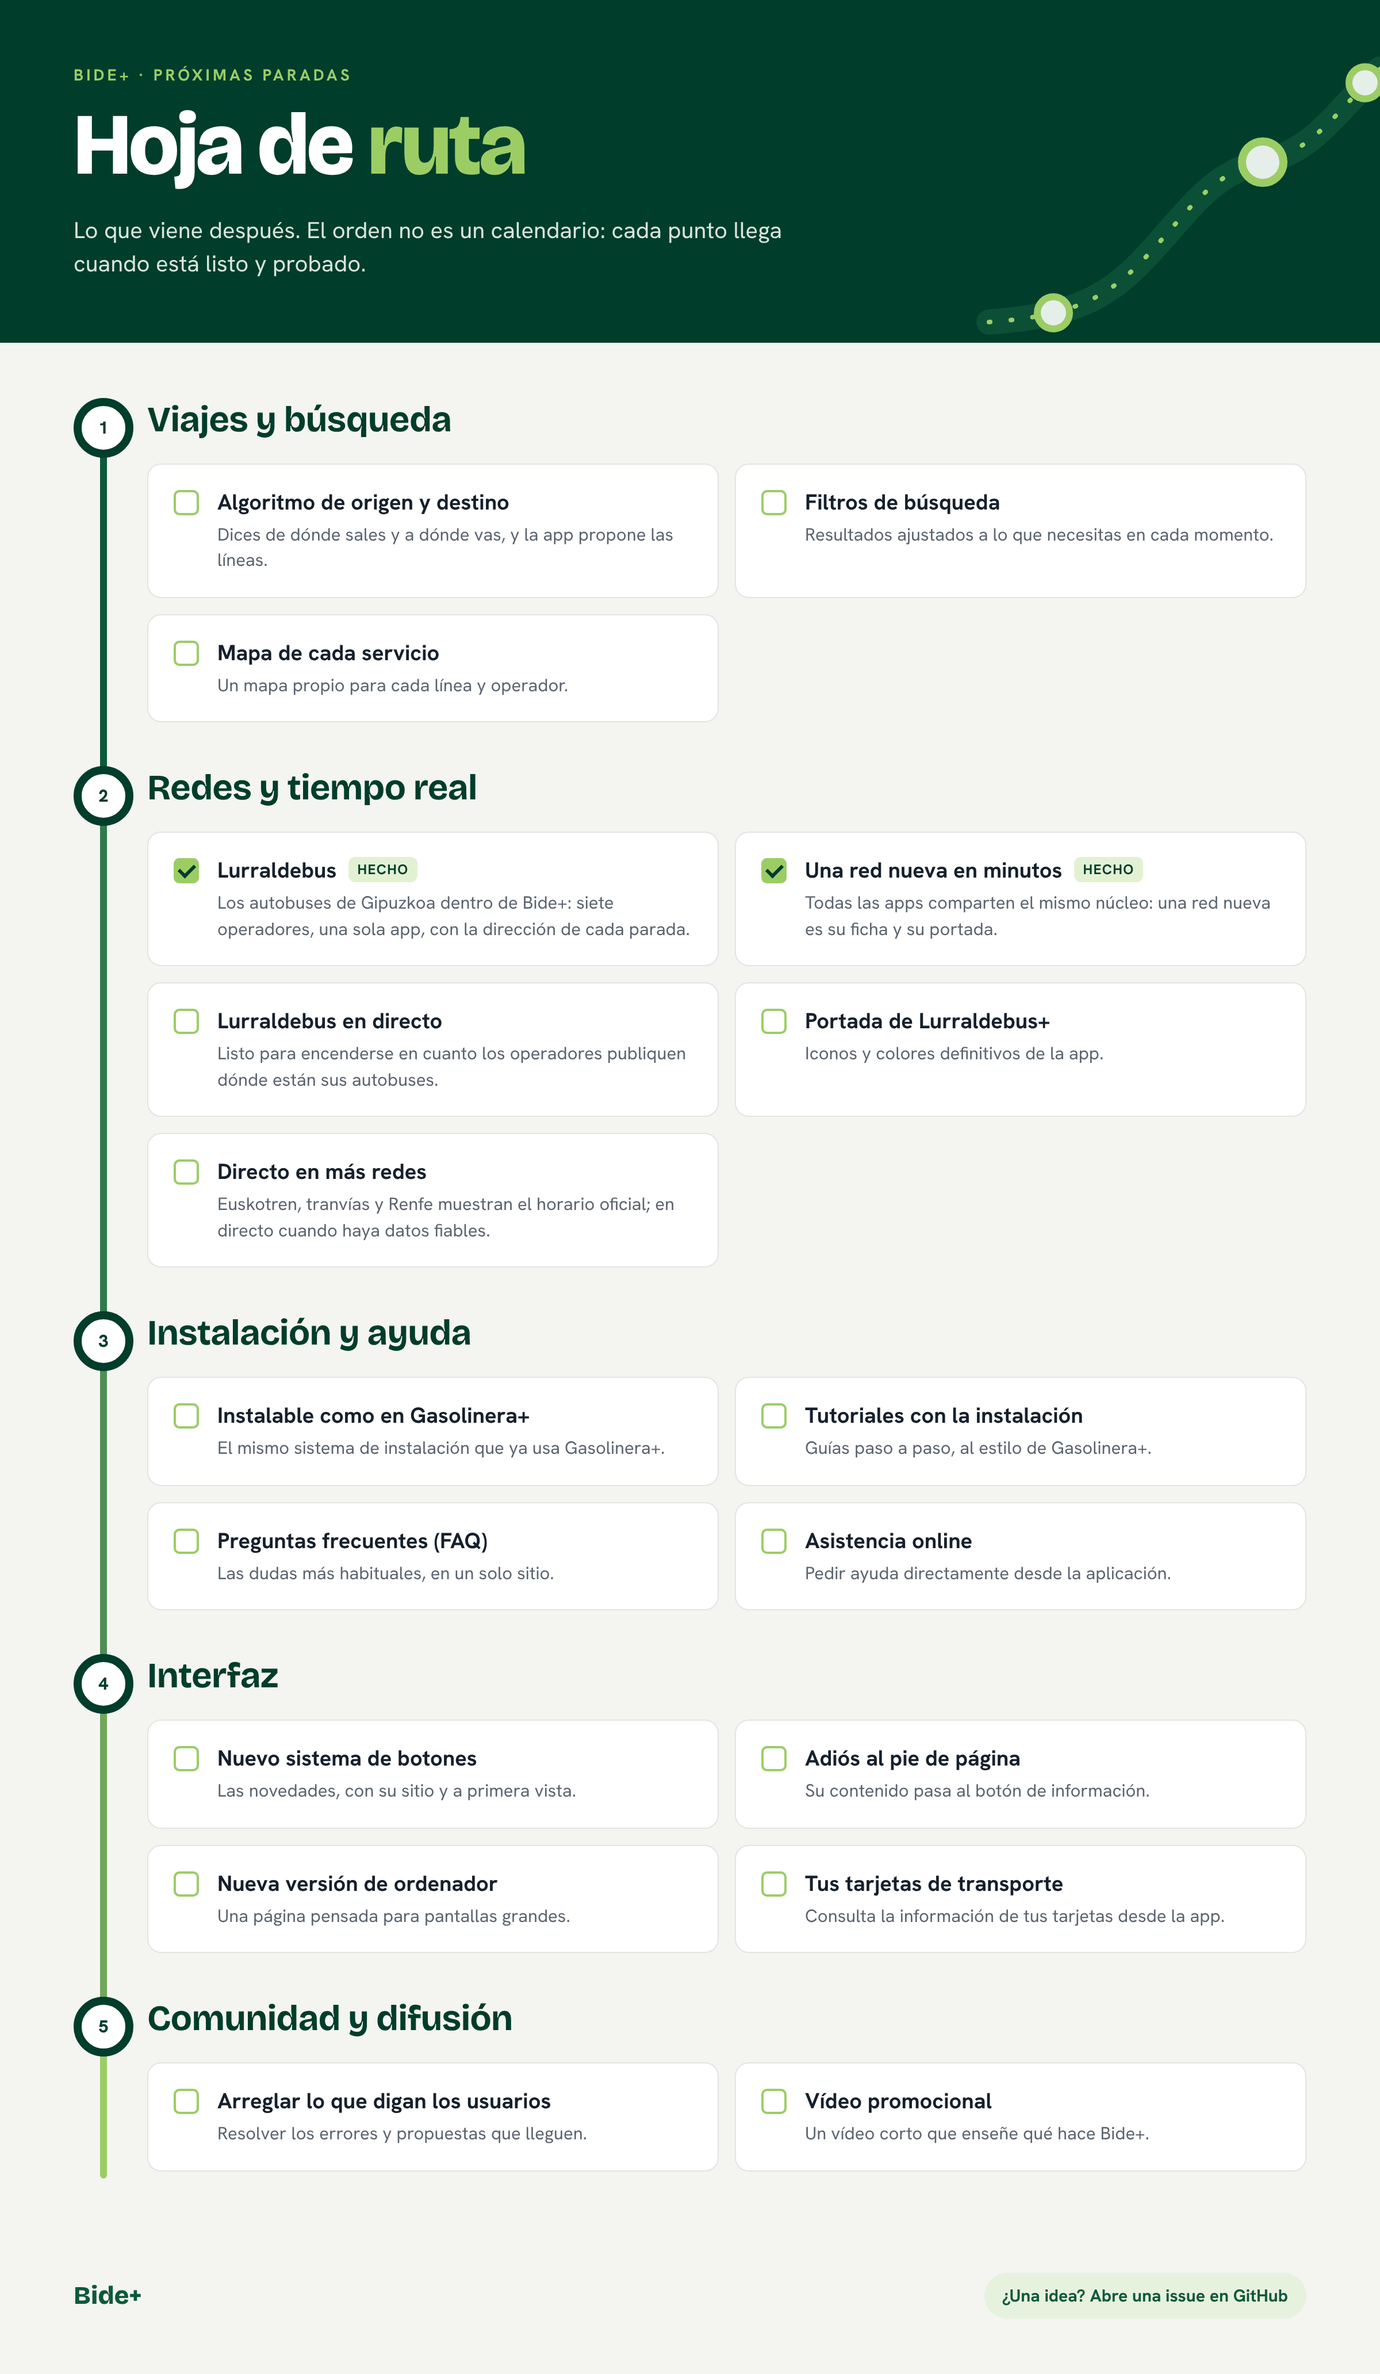
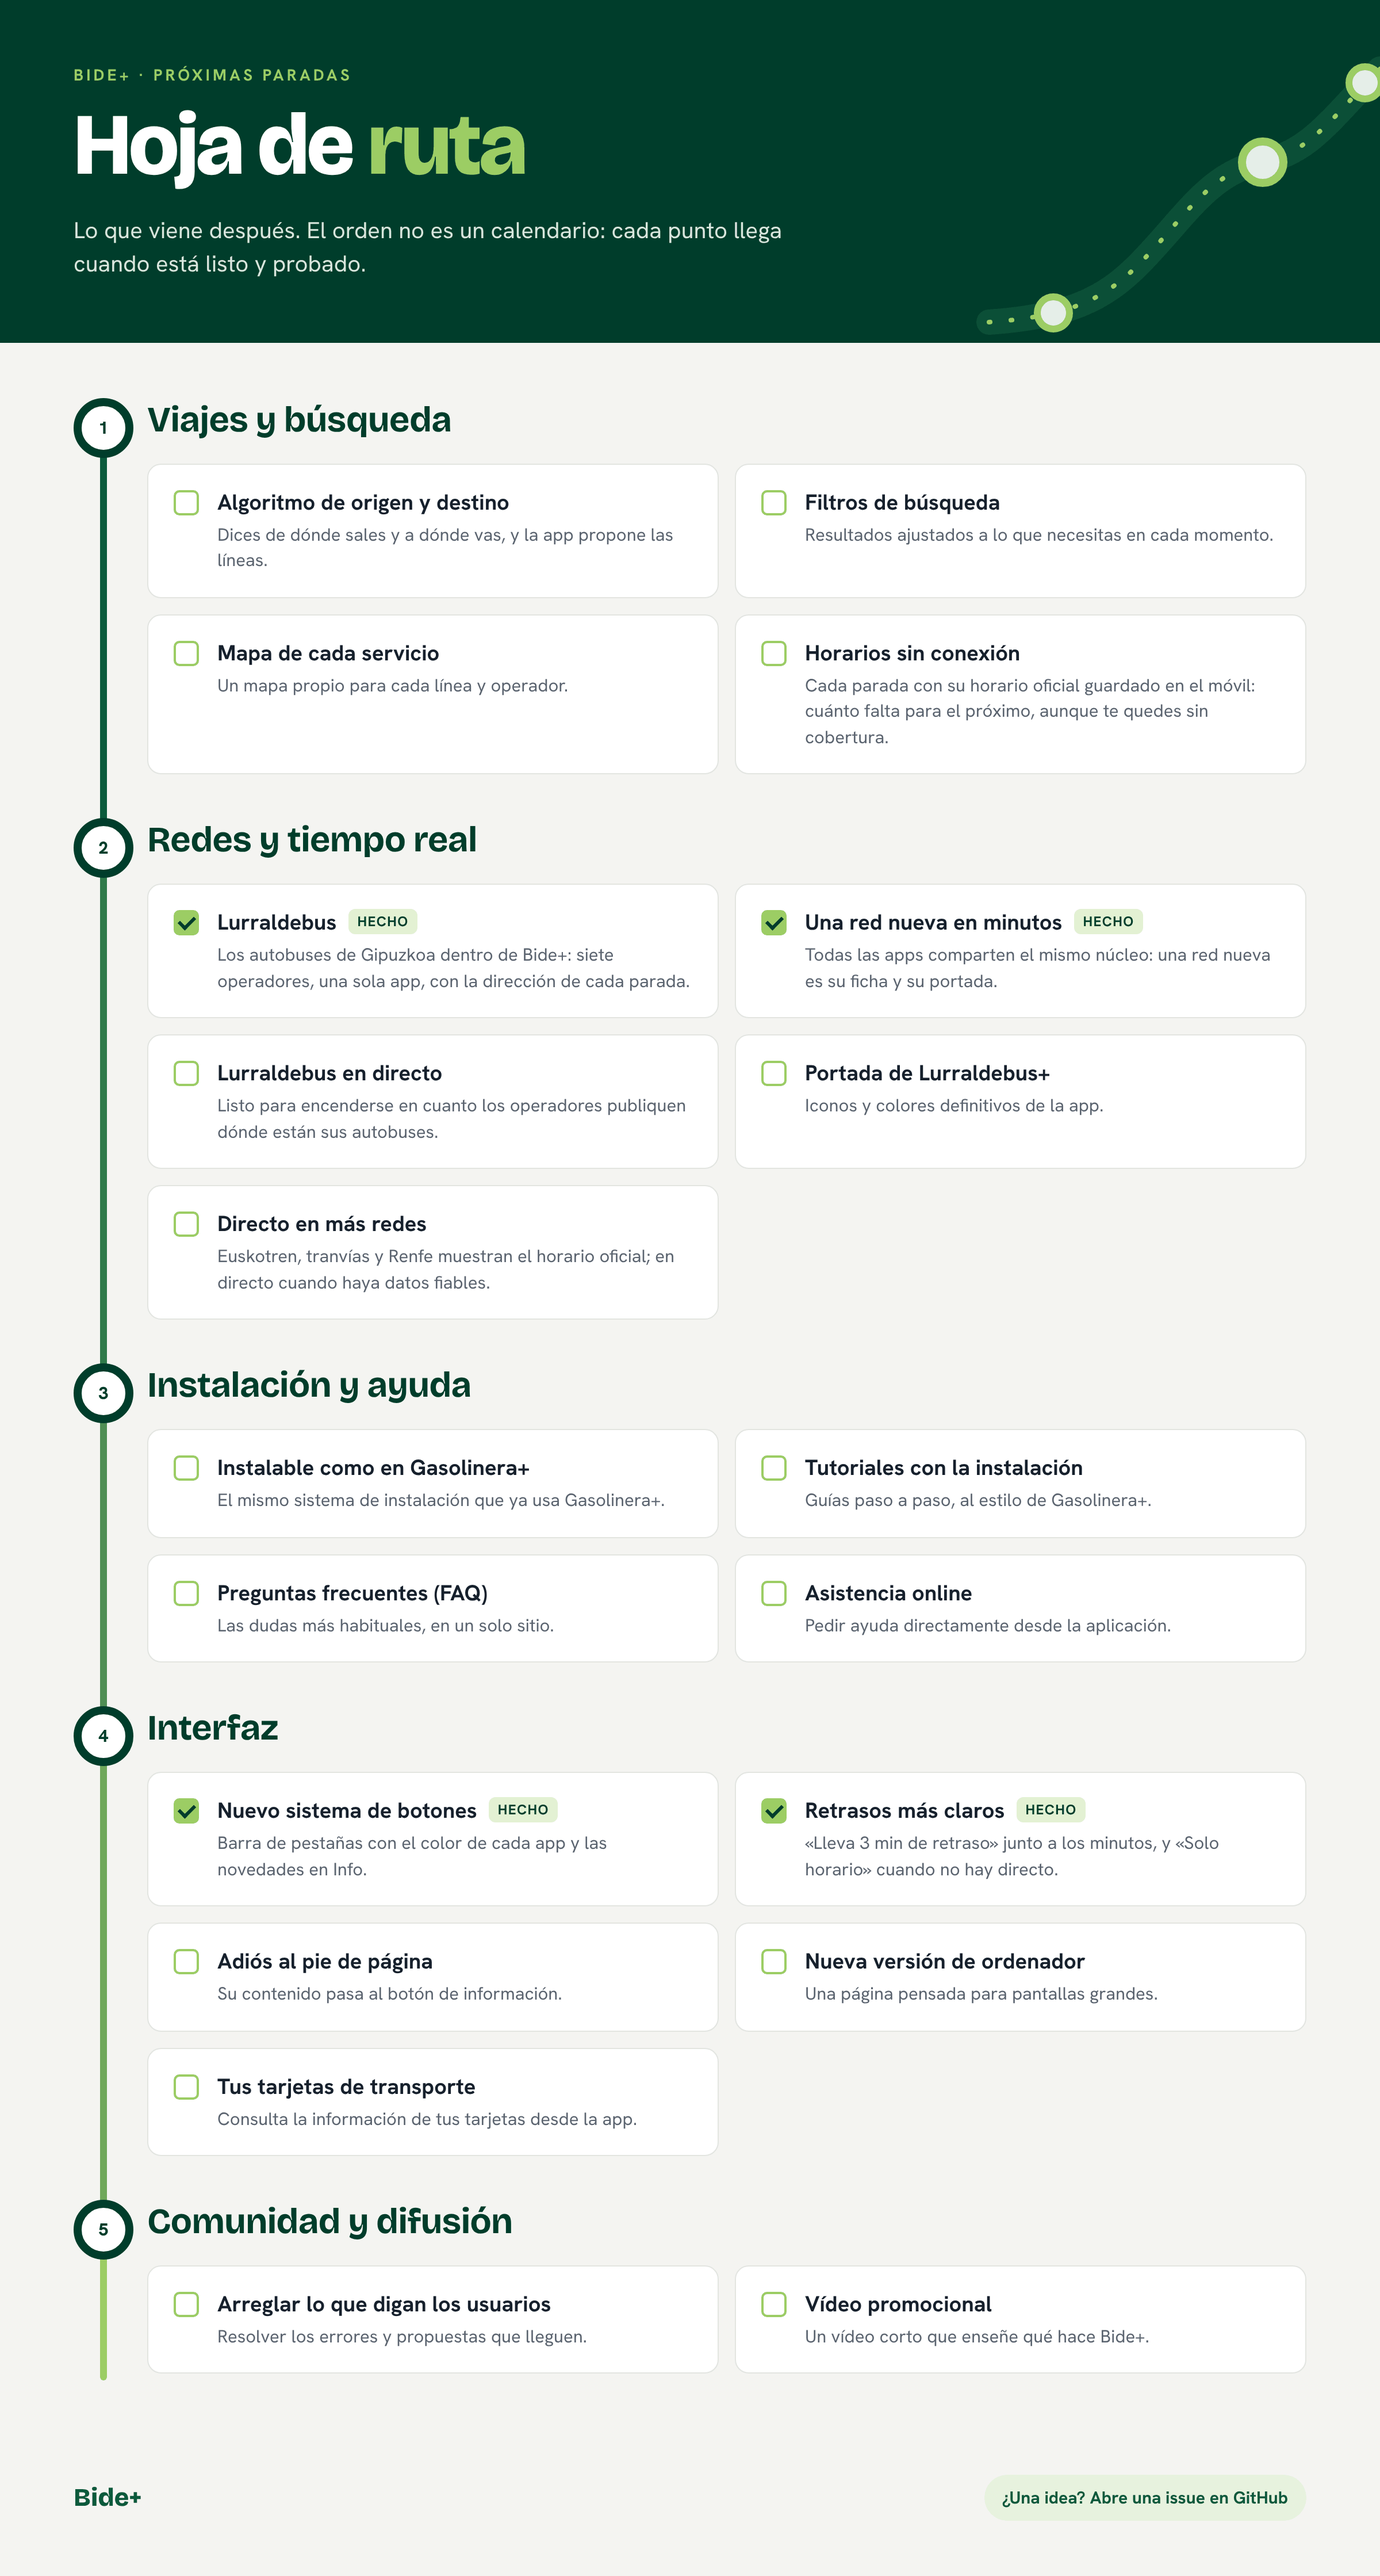
docs: hoja de ruta con lo hecho en la interfaz y los horarios sin conexión

diff --git a/ROADMAP.md b/ROADMAP.md
@@ -1,7 +1,7 @@
 # Hoja de ruta
 
 <p align="center">
-  <img src=".github/assets/roadmap.png" width="900" alt="Hoja de ruta de Bide+. 1, Viajes y búsqueda: algoritmo de origen y destino, filtros de búsqueda y mapa de cada servicio. 2, Redes y tiempo real: hecho Lurraldebus (siete operadores de Gipuzkoa con la dirección de cada parada) y el núcleo común para añadir redes; pendiente Lurraldebus en directo, la portada definitiva de Lurraldebus+ y el directo en Euskotren, tranvías y Renfe. 3, Instalación y ayuda: instalable como en Gasolinera+, tutoriales con la instalación, preguntas frecuentes (FAQ) y asistencia online. 4, Interfaz: nuevo sistema de botones, quitar el pie de página y pasar su contenido al botón de información, nueva versión de ordenador e información de tus tarjetas de transporte. 5, Comunidad y difusión: arreglar lo que digan los usuarios y vídeo promocional.">
+  <img src=".github/assets/roadmap.png" width="900" alt="Hoja de ruta de Bide+. 1, Viajes y búsqueda: algoritmo de origen y destino, filtros de búsqueda, mapa de cada servicio y horarios sin conexión (cada parada con su horario oficial guardado en el móvil para saber cuánto falta sin cobertura). 2, Redes y tiempo real: hecho Lurraldebus (siete operadores de Gipuzkoa con la dirección de cada parada) y el núcleo común para añadir redes; pendiente Lurraldebus en directo, la portada definitiva de Lurraldebus+ y el directo en Euskotren, tranvías y Renfe. 3, Instalación y ayuda: instalable como en Gasolinera+, tutoriales con la instalación, preguntas frecuentes (FAQ) y asistencia online. 4, Interfaz: hecho el nuevo sistema de botones y los retrasos más claros; pendiente quitar el pie de página y pasar su contenido al botón de información, nueva versión de ordenador e información de tus tarjetas de transporte. 5, Comunidad y difusión: arreglar lo que digan los usuarios y vídeo promocional.">
 </p>
 
 ¿Echas algo en falta o quieres proponer una idea? Abre una [issue](../../issues/new/choose).
